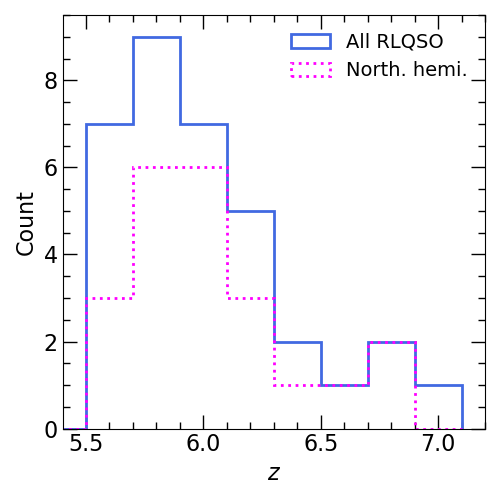
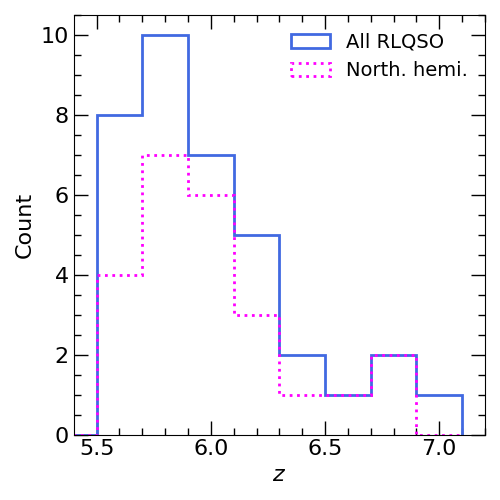
Update RLQSO sample with radio-galaxies

diff --git a/RLQSO/RLQSO_dist.py b/RLQSO/RLQSO_dist.py
@@ -89,7 +89,7 @@ ax.hist(z,bins=bins,density=False,histtype='step',linewidth=2,color='royalblue',
 ax.hist(z_north,bins=bins,density=False,histtype='step',linestyle=':',linewidth=2,color='fuchsia',label='North. hemi.')
 plt.legend(frameon=False,fontsize=fsize_leg)
 ax.set_xlim(5.4,7.2)
-ax.set_ylim(0,9.5)
+ax.set_ylim(0,10.5)
 ax.set_xlabel(r'$z$',fontsize=fsize)
 ax.set_ylabel('Count',fontsize=fsize)
 ax.xaxis.set_minor_locator(AutoMinorLocator())
@@ -116,7 +116,7 @@ ax1.hist(z_north,bins=bins,density=False,histtype='step',linestyle=':',linewidth
 plt.legend(frameon=False,fontsize=fsize_leg)
 ax1.set_xticks(np.arange(5.5,7.1,0.5))
 ax1.set_xlim(5.4,7.2)
-ax1.set_ylim(0,9.5)
+ax1.set_ylim(0,10.5)
 ax1.set_ylabel('Count',fontsize=fsize)
 ax1.xaxis.set_minor_locator(AutoMinorLocator())
 ax1.yaxis.set_minor_locator(AutoMinorLocator())
